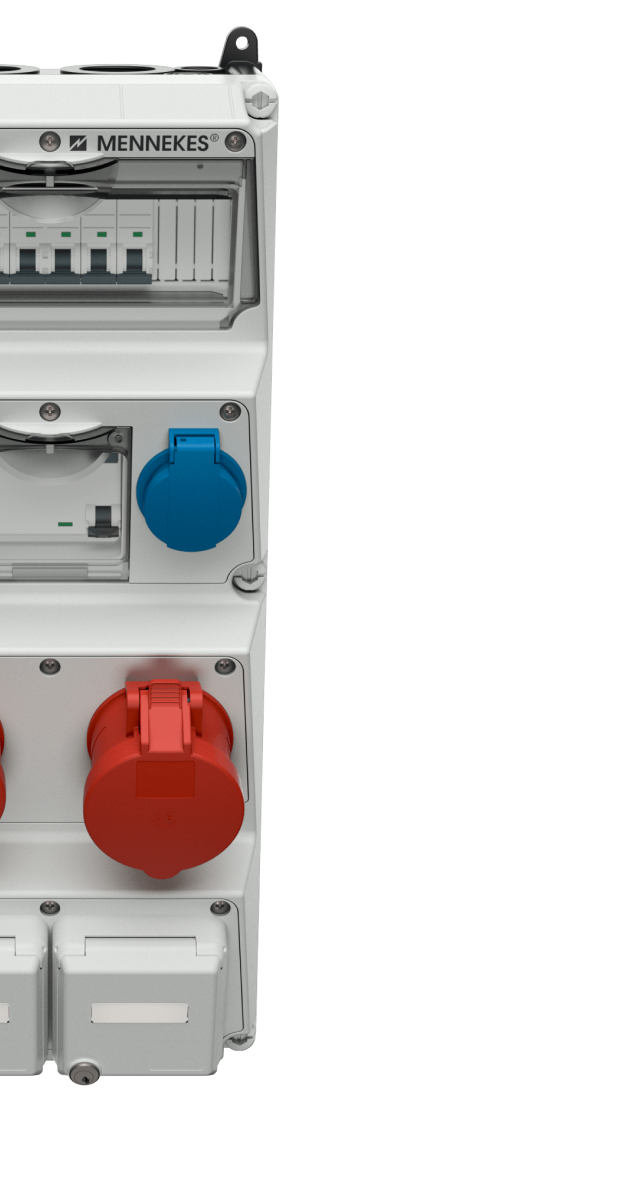
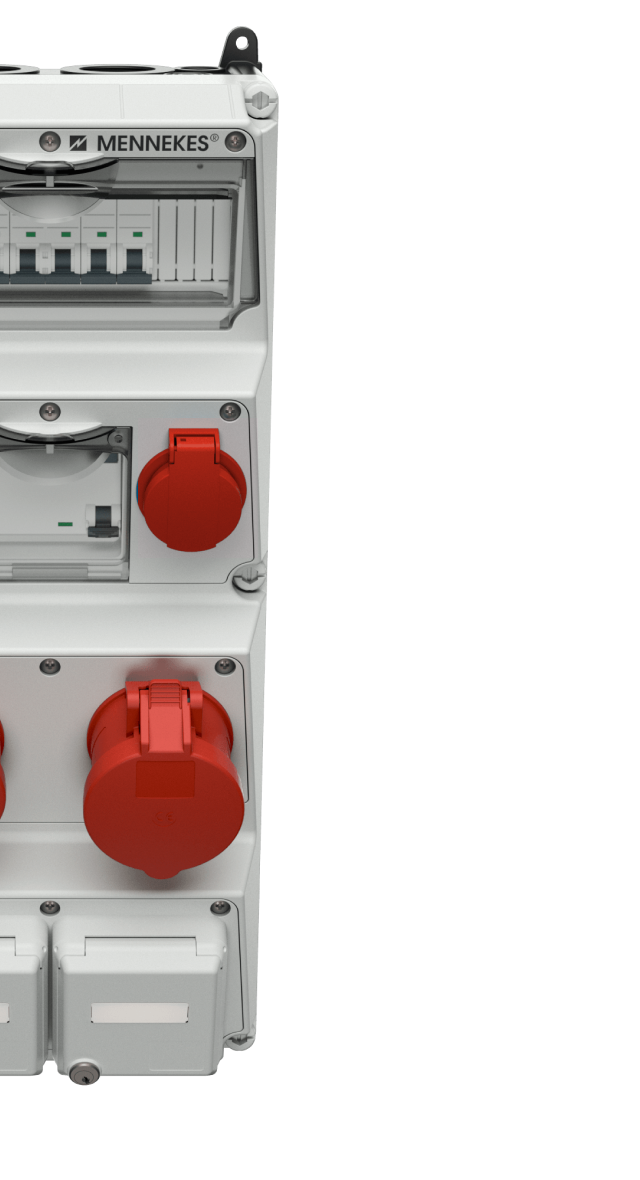
switch t23 and t25

Changed region(s): [[0.2188, 0.3356, 0.4062, 0.4881]]

diff --git a/resources/js/views/configurator/Index.vue b/resources/js/views/configurator/Index.vue
@@ -36,18 +36,18 @@
               <icon-cee16a3p />
             </template>
           </filter-item>
-          <filter-item :attr="'ch_16a_t25'" :class="[!filter_options.ch_16a_t25 ? 'is-disabled' : '']">
+          <filter-item :attr="'ch_16a_t23'" :class="[!filter_options.ch_16a_t23 ? 'is-disabled' : '']">
             <template v-slot:select>
-              <div :class="[selected('ch_16a_t25') ? 'is-selected' : '', 'select']">
-                <select v-model="filter_items.ch_16a_t25" @change="filter()">
-                  <option value="null">16A T25</option>
-                  <option :value="o" v-for="(o,i) in filter_options.ch_16a_t25" :key="i">{{o}}</option>
+              <div :class="[selected('ch_16a_t23') ? 'is-selected' : '', 'select']">
+                <select v-model="filter_items.ch_16a_t23" @change="filter()">
+                  <option value="null">16A T23</option>
+                  <option :value="o" v-for="(o,i) in filter_options.ch_16a_t23" :key="i">{{o}}</option>
                 </select>
-                <label class="is-left">16A T25</label>
+                <label class="is-right">16A T23</label>
               </div>
             </template>
             <template v-slot:icon-after>
-              <icon-ch16at25 />
+              <icon-ch16at23 />
             </template>
           </filter-item>
           <filter-item :attr="'data_ports'" :class="[!filter_options.data_ports ? 'is-disabled' : '']">
@@ -95,18 +95,18 @@
               <icon-fi-switch />
             </template>
           </filter-item>
-          <filter-item :attr="'ch_16a_t23'" :class="[!filter_options.ch_16a_t23 ? 'is-disabled' : '']">
+          <filter-item :attr="'ch_16a_t25'" :class="[!filter_options.ch_16a_t25 ? 'is-disabled' : '']">
             <template v-slot:select>
-              <div :class="[selected('ch_16a_t23') ? 'is-selected' : '', 'select']">
-                <select v-model="filter_items.ch_16a_t23" @change="filter()">
-                  <option value="null">16A T23</option>
-                  <option :value="o" v-for="(o,i) in filter_options.ch_16a_t23" :key="i">{{o}}</option>
+              <div :class="[selected('ch_16a_t25') ? 'is-selected' : '', 'select']">
+                <select v-model="filter_items.ch_16a_t25" @change="filter()">
+                  <option value="null">16A T25</option>
+                  <option :value="o" v-for="(o,i) in filter_options.ch_16a_t25" :key="i">{{o}}</option>
                 </select>
-                <label class="is-right">16A T23</label>
+                <label class="is-right">16A T25</label>
               </div>
             </template>
             <template v-slot:icon-before>
-              <icon-ch16at23 />
+              <icon-ch16at25 />
             </template>
           </filter-item>
           <filter-item :attr="'cee_63a_32a_16a_5p'" :class="[!filter_options.cee_63a_5p && !filter_options.cee_32a_5p && !filter_options.cee_16a_5p ? 'is-disabled' : '']">
@@ -172,6 +172,20 @@
             <icon-cee16a3p />
           </template>
         </filter-item>
+        <filter-item :attr="'ch_16a_t23'" :class="[!filter_options.ch_16a_t23 ? 'is-disabled' : '']">
+          <template v-slot:select>
+            <div :class="[selected('ch_16a_t23') ? 'is-selected' : '', 'select']">
+              <select v-model="filter_items.ch_16a_t23" @change="filter()">
+                <option value="null">16A T23</option>
+                <option :value="o" v-for="(o,i) in filter_options.ch_16a_t23" :key="i">{{o}}</option>
+              </select>
+              <label class="is-left">16A T23</label>
+            </div>
+          </template>
+          <template v-slot:icon-after>
+            <icon-ch16at23 />
+          </template>
+        </filter-item>
         <filter-item :attr="'ch_16a_t25'" :class="[!filter_options.ch_16a_t25 ? 'is-disabled' : '']">
           <template v-slot:select>
             <div :class="[selected('ch_16a_t25') ? 'is-selected' : '', 'select']">
@@ -179,10 +193,10 @@
                 <option value="null">16A T25</option>
                 <option :value="o" v-for="(o,i) in filter_options.ch_16a_t25" :key="i">{{o}}</option>
               </select>
-              <label class="is-left">16A T25</label>
+              <label class="is-right">16A T25</label>
             </div>
           </template>
-          <template v-slot:icon-after>
+          <template v-slot:icon-before>
             <icon-ch16at25 />
           </template>
         </filter-item>
@@ -201,33 +215,18 @@
           </template>
           
         </filter-item>
-          <filter-item :attr="'ls_switch'" :class="[!filter_options.ls_switch ? 'is-disabled' : '']">
-            <template v-slot:select>
-              <div :class="[selected('ls_switch') ? 'is-selected' : '', 'select']">
-                <select v-model="filter_items.ls_switch" @change="filter()">
-                  <option value="null">LS-Schalter</option>
-                  <option :value="o" v-for="(o,i) in filter_options.ls_switch" :key="i">{{o}}</option>
-                </select>
-                <label class="is-right">LS-Schalter</label>
-              </div>
-            </template>
-            <template v-slot:icon-before>
-              <icon-ls-switch />
-            </template>
-          </filter-item>
-
-        <filter-item :attr="'ch_16a_t23'" :class="[!filter_options.ch_16a_t23 ? 'is-disabled' : '']">
+        <filter-item :attr="'ls_switch'" :class="[!filter_options.ls_switch ? 'is-disabled' : '']">
           <template v-slot:select>
-            <div :class="[selected('ch_16a_t23') ? 'is-selected' : '', 'select']">
-              <select v-model="filter_items.ch_16a_t23" @change="filter()">
-                <option value="null">16A T23</option>
-                <option :value="o" v-for="(o,i) in filter_options.ch_16a_t23" :key="i">{{o}}</option>
+            <div :class="[selected('ls_switch') ? 'is-selected' : '', 'select']">
+              <select v-model="filter_items.ls_switch" @change="filter()">
+                <option value="null">LS-Schalter</option>
+                <option :value="o" v-for="(o,i) in filter_options.ls_switch" :key="i">{{o}}</option>
               </select>
-              <label class="is-right">16A T23</label>
+              <label class="is-right">LS-Schalter</label>
             </div>
           </template>
           <template v-slot:icon-before>
-            <icon-ch16at23 />
+            <icon-ls-switch />
           </template>
         </filter-item>
         <filter-item :attr="'cee_63a_32a_16a_5p'" :class="[!filter_options.cee_63a_5p && !filter_options.cee_32a_5p && !filter_options.cee_16a_5p ? 'is-disabled' : '']">

diff --git a/resources/sass/views/_configurator.scss b/resources/sass/views/_configurator.scss
@@ -326,7 +326,6 @@
 
 }
 
-
 /** FI/LS **/
 .selector__pointer.is-fi_ls {
   height: 38px;
@@ -355,6 +354,35 @@
 
 /** 16A T25 **/
 .selector__pointer.is-ch_16a_t25 {
+  height: 89px;
+  left: 78px;
+  top: 236px;
+  width: 210px;
+
+  > div {
+    align-items: flex-end;
+  }
+
+  .select {
+    height: 38px;
+    left: -32px;
+    top: 16px;
+    width: 115px;
+  }
+
+  @include bp-sm() {
+    left: 280px;
+    top: 186px;
+  }
+
+  @include bp-lg() {
+    left: 348px;
+    top: 235px;
+  }
+}
+
+/** Ch16aT23 **/
+.selector__pointer.is-ch_16a_t23 {
   height: 38px;
   right: 75px;
   top: 234px;
@@ -541,36 +569,6 @@
   @include bp-lg() {
     left: 318px;
     top: 90px;
-  }
-}
-
-
-/** Ch16aT23 **/
-.selector__pointer.is-ch_16a_t23 {
-  height: 89px;
-  left: 78px;
-  top: 236px;
-  width: 210px;
-
-  > div {
-    align-items: flex-end;
-  }
-
-  .select {
-    height: 38px;
-    left: -32px;
-    top: 16px;
-    width: 115px;
-  }
-
-  @include bp-sm() {
-    left: 280px;
-    top: 186px;
-  }
-
-  @include bp-lg() {
-    left: 348px;
-    top: 235px;
   }
 }
 

diff --git a/resources/js/views/configurator/components/icons/ch_16a_t23.vue b/resources/js/views/configurator/components/icons/ch_16a_t23.vue
@@ -1,9 +1,8 @@
 <template>
-<svg xmlns="http://www.w3.org/2000/svg" width="110" height="76" viewBox="0 0 110 76">
-  <circle cx="18" cy="18" r="16" class="fill-30"/>
-  <circle cx="18" cy="18" r="6.4" class="fill-100"/>
-  <circle cx="18" cy="18" r="17" class="fill-none stroke stroke-w2 stroke-50"/>
-  <path d="M18 70h89c1.7 0 3 1.3 3 3s-1.3 3-3 3H18c-1.7 0-3-1.3-3-3s1.3-3 3-3z" class="fill-100"/>
-  <path d="M21 18v54c0 1.7-1.3 3-3 3s-3-1.3-3-3V18c0-1.7 1.3-3 3-3s3 1.3 3 3z" class="fill-100"/>
-</svg>
+  <svg xmlns="http://www.w3.org/2000/svg" width="91" height="36" viewBox="0 0 91 36">
+    <circle class="fill-30" cx="73" cy="18" r="16"/>
+    <circle class="fill-100" cx="73" cy="18" r="6.4"/>
+    <circle class="fill-none stroke stroke-w2 stroke-50" cx="73" cy="18" r="17"/>
+    <path class="fill-100" d="M3 15h69c1.7 0 3 1.3 3 3s-1.3 3-3 3H3c-1.7 0-3-1.3-3-3s1.3-3 3-3z"/>
+  </svg>
 </template>

diff --git a/resources/js/views/configurator/components/icons/ch_16a_t25.vue b/resources/js/views/configurator/components/icons/ch_16a_t25.vue
@@ -1,8 +1,9 @@
 <template>
-  <svg xmlns="http://www.w3.org/2000/svg" width="91" height="36" viewBox="0 0 91 36">
-    <circle class="fill-30" cx="73" cy="18" r="16"/>
-    <circle class="fill-100" cx="73" cy="18" r="6.4"/>
-    <circle class="fill-none stroke stroke-w2 stroke-50" cx="73" cy="18" r="17"/>
-    <path class="fill-100" d="M3 15h69c1.7 0 3 1.3 3 3s-1.3 3-3 3H3c-1.7 0-3-1.3-3-3s1.3-3 3-3z"/>
-  </svg>
+<svg xmlns="http://www.w3.org/2000/svg" width="110" height="76" viewBox="0 0 110 76">
+  <circle cx="18" cy="18" r="16" class="fill-30"/>
+  <circle cx="18" cy="18" r="6.4" class="fill-100"/>
+  <circle cx="18" cy="18" r="17" class="fill-none stroke stroke-w2 stroke-50"/>
+  <path d="M18 70h89c1.7 0 3 1.3 3 3s-1.3 3-3 3H18c-1.7 0-3-1.3-3-3s1.3-3 3-3z" class="fill-100"/>
+  <path d="M21 18v54c0 1.7-1.3 3-3 3s-3-1.3-3-3V18c0-1.7 1.3-3 3-3s3 1.3 3 3z" class="fill-100"/>
+</svg>
 </template>